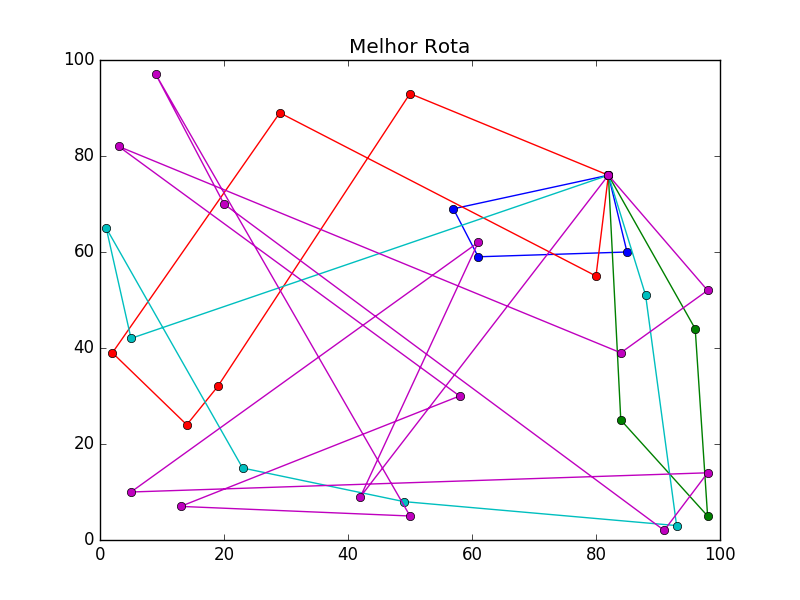
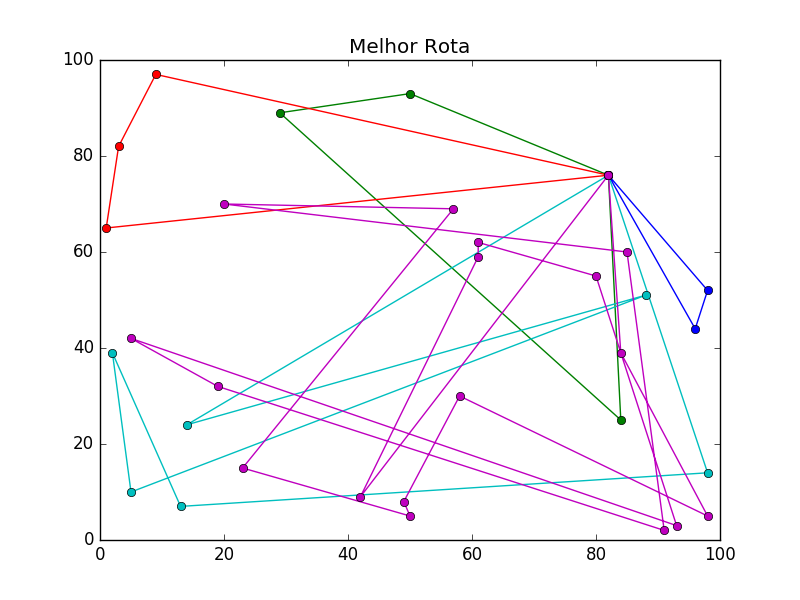
adicionados os critérios de parada por baixa variação da média do fitness e parada pelo coeficiente de variação do fitness.

diff --git a/Testes_Thais.py b/Testes_Thais.py
@@ -124,7 +124,6 @@ def pokemon(pop, dist_matrix, qtd_customers, qtd_vehicles, capacity, gama, size)
     # Separa Individuo do fitness
     nova_populacao = [individuo[0] for individuo in pop_plus_fit[:params['tamanho_pop']]]
     novo_fitness = [individuo[1] for individuo in pop_plus_fit[:params['tamanho_pop']]]
-
     #Neste momento, todos os vetores usados sao listas
     return nova_populacao, novo_fitness
 
@@ -164,6 +163,9 @@ while execucao < params['execucao']:
     best_ind = 0
     best_fit = 0
     geracao = 1
+    mean_count = 0
+    last_mean = 0
+    cv = 0
     while geracao < params['geracoes']:
         size = len(pop[0])
         if geracao % 100 == 0:
@@ -172,7 +174,7 @@ while execucao < params['execucao']:
         # resultado.write(str(geracao))
         # resultado.write("\n\n")
         pop, melhor = pokemon(pop, dist_matrix, qtd_customers, qtd_vehicles, capacity, gama, size)
-        best_fit = np.min(melhor) 
+        best_fit = np.min(melhor)
         best_ind = pop[melhor.index(best_fit)] 
         melhor_fit.extend(melhor)
         geracao = geracao + 1
@@ -182,6 +184,28 @@ while execucao < params['execucao']:
         means.append(np.around(np.mean(melhor), decimals=2))
         worses.append(np.max(melhor))
         stdr_dev.append(np.around(np.std(melhor), decimals=2))
+
+        # Criterio de parada pela variacao da media
+        if geracao == 1:
+            last_mean = means[-1]
+            mean_count = 0
+        else:
+            if mean_count >= params['mean_variation']:
+                print 'Criterio de parada por media.'
+                break
+            if last_mean == means[-1]:
+                mean_count += 1
+            else:
+                last_mean = means[-1]
+                mean_count = 0
+        # Criterio de parada por coeficiente de variacao
+        # Cv < 15 % → baixa dispersão: dados homogêneos
+        # 15 < Cv > 30 % → média dispersão
+        # Cv > 30 % → alta dispersão: dados heterogêneos
+        cv = (np.std(melhor) / np.mean(melhor)) * 100
+        if cv < params['c_variation']:
+            print 'Criterio de parada por cv.'
+            break
     # melhor = sorted(melhor_fit, key=lambda x: x[0])
     # print "Fitness minimo ever: ", min(melhor_fit, key=lambda t: t[0])
     # min_melhor_fit = min(melhor_fit, key=itemgetter(0))

diff --git a/GACRVP.py b/GACRVP.py
@@ -543,6 +543,7 @@ def roleta(populacao, fitness, max_fitness, min_fitness, fitness_total):
             return index
     return size_pop - 1
 
+
 def plot_graph(betters, means, stdr_dev, procriation, path):
     plot_lines = []
     plt.title("Genetic Algorithm ")
@@ -565,6 +566,7 @@ def plot_graph(betters, means, stdr_dev, procriation, path):
     plt.savefig(path + "grafico_evolucao.eps")
     plt.savefig(path + "grafico_evolucao.png")
     plt.close()
+
 
 def clean_str(string):
     remove = ['\'', ']', '[', '(', ')', ',', ' ']
